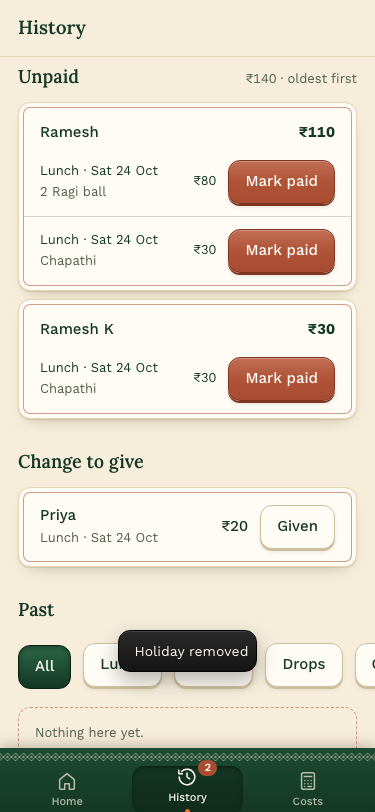
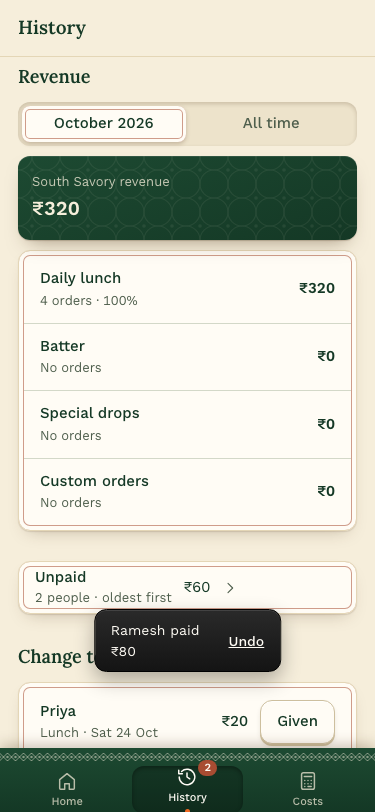
History: revenue by category, folded Unpaid, filters keep scroll
Shows South Savory revenue for this month or all time, with daily lunch,
batter, special drops and custom orders under it. Unpaid orders count.
The Unpaid list is folded for reference, and the Past filters no longer
jump back to the top.

diff --git a/site/public/index.html b/site/public/index.html
@@ -240,6 +240,10 @@ input:focus{outline:2px solid var(--hue);outline-offset:-1px;border-color:transp
 .toast button{color:var(--on-primary);font-weight:500;text-decoration:underline;padding:6px 8px}
 
 .ferr{color:var(--negative);font-size:14px;margin:8px 0 0}
+.acc>summary{list-style:none;cursor:pointer}
+.acc>summary::-webkit-details-marker{display:none}
+.acc>summary .chev{transition:transform .2s}
+.acc[open]>summary .chev{transform:rotate(90deg)}
 .notice{background:var(--pill-warning-bg);color:var(--pill-warning-ink);border-radius:var(--radius-card);padding:12px 14px;font-size:14px}
 .notice.neutral{background:var(--raised);color:var(--text)}
 .filters{display:flex;gap:6px;overflow-x:auto;padding-bottom:2px;margin:0 calc(-1 * var(--pad));padding:0 var(--pad)}
@@ -1811,8 +1815,27 @@ function viewMonth(q){
 }
 
 /* ======================= HISTORY ======================= */
+/* revenue by category for a month ("2026-10") or for everything ("all"); unpaid orders count, they get followed up */
+function revenueBy(per){
+  var r={total:0,paid:0,unpaid:0,n:0,cats:{lunch:{rev:0,n:0},batter:{rev:0,n:0},drop:{rev:0,n:0},custom:{rev:0,n:0}}};
+  events().forEach(function(ev){
+    if(per!=="all"&&(ev.date||"").slice(0,7)!==per) return;
+    var st=eventStats(ev), c=r.cats[ev.kind]; if(!c) return;
+    c.rev+=st.total; c.n+=st.n; r.total+=st.total; r.n+=st.n; r.paid+=st.paid; r.unpaid+=st.unpaid;
+  });
+  return r;
+}
+/* the History filters change the page in place, without jumping back to the top */
+function histSet(k,v){
+  var m=/[?&]f=([^&]*)/.exec(current), p=/[?&]p=([^&]*)/.exec(current);
+  var o={f:m?m[1]:"all",p:p?p[1]:"month"}; o[k]=v;
+  var h="#/history?f="+o.f+"&p="+o.p, y=window.scrollY;
+  current=h; try{ history.replaceState(null,"",h); }catch(e){}
+  render(); window.scrollTo(0,y);
+}
+var histOwedOpen=false;
 function viewHistory(q){
-  var f=q.f||"all";
+  var f=q.f||"all", per=q.p==="all"?"all":"month";
   var og=owedGroups(), ch=changeRows();
   var past=events().filter(isPast).filter(function(e){return f==="all"||e.kind===f;}).sort(function(a,b){return byDate(b,a);});
   var owedHtml=og.length?og.map(function(g){
@@ -1826,10 +1849,21 @@ function viewHistory(q){
     return '<div class="row"><span class="grow"><span class="t1" style="display:block">'+esc(r.o.name||"No name")+'</span><span class="t2" style="display:block">'+esc(evLabel(r.ev))+'</span></span><span class="val num" style="font-weight:500">'+rupee(r.o.changeDue)+'</span><button class="chip" onclick="giveChange(\''+r.ev.id+'\',\''+r.o.id+'\')">Given</button></div>';
   }).join("")+'</div>':'<p class="empty">No change owed to anyone.</p>';
   var fl=[["all","All"],["lunch","Lunch"],["batter","Batter"],["drop","Drops"],["custom","Custom"]];
+  var ym=todayKey().slice(0,7), rv=revenueBy(per==="all"?"all":ym);
+  var revRows=[["lunch","Daily lunch"],["batter","Batter"],["drop","Special drops"],["custom","Custom orders"]].map(function(k){
+    var c=rv.cats[k[0]];
+    return '<div class="row"><span class="grow"><span class="t1" style="display:block">'+k[1]+'</span><span class="t2 num" style="display:block">'+(c.n?plural(c.n,"order")+' · '+Math.round(c.rev*100/(rv.total||1))+'%':'No orders')+'</span></span><span class="amt num">'+rupee(c.rev)+'</span></div>';
+  }).join("");
+  var owedSum=og.reduce(function(a,g){return a+g.total;},0);
   $app.innerHTML='<header class="bar"><h1 style="padding-left:8px">History</h1></header><main class="page">'+
-    '<div class="section" style="margin-top:4px"><h2>Unpaid<span class="aside num">'+(og.length?rupee(og.reduce(function(a,g){return a+g.total;},0))+" · oldest first":"")+'</span></h2>'+owedHtml+'</div>'+
+    '<div class="section" style="margin-top:4px"><h2>Revenue</h2><div class="seg full" role="group" aria-label="Period">'+
+      [["month",monthName(ym)],["all","All time"]].map(function(x){return '<button aria-pressed="'+(per===x[0])+'" onclick="histSet(\'p\',\''+x[0]+'\')">'+x[1]+'</button>';}).join("")+'</div>'+
+      '<div class="card strip num" style="margin-top:10px;grid-template-columns:1fr"><div><div class="lab">South Savory revenue</div><div class="v money">'+rupee(rv.total)+'</div></div></div>'+
+      '<div class="list" style="margin-top:10px">'+revRows+'</div>'+
+      '</div>'+
+    '<div class="section"><details class="acc" id="owedAcc"'+(histOwedOpen?' open':'')+' ontoggle="histOwedOpen=this.open"><summary class="card owedrow" style="margin-top:0"><span class="grow"><span style="font-weight:500;display:block">Unpaid</span><span class="sub" style="display:block;margin:0">'+(og.length?plural(og.length,"person","people")+' · oldest first':'Nobody owes anything')+'</span></span><span class="amt num">'+(og.length?rupee(owedSum):'')+'</span>'+I.chev+'</summary>'+(og.length?owedHtml:'')+'</details></div>'+
     '<div class="section"><h2>Change to give</h2>'+chHtml+'</div>'+
-    '<div class="section"><h2>Past</h2><div class="filters" role="group" aria-label="Filter">'+fl.map(function(x){return '<button class="chip" aria-pressed="'+(f===x[0])+'" onclick="go(\'#/history?f='+x[0]+'\')">'+x[1]+'</button>';}).join("")+'</div>'+
+    '<div class="section"><h2>Past</h2><div class="filters" role="group" aria-label="Filter">'+fl.map(function(x){return '<button class="chip" aria-pressed="'+(f===x[0])+'" onclick="histSet(\'f\',\''+x[0]+'\')">'+x[1]+'</button>';}).join("")+'</div>'+
       (past.length?'<div class="list" style="margin-top:10px">'+past.map(function(ev){ var st=eventStats(ev);
         return '<a class="row" href="'+evRoute(ev)+'"><span class="grow"><span class="t1" style="display:block">'+esc(evLabel(ev))+'</span><span class="t2" style="display:block">'+st.n+' '+(st.n===1?"order":"orders")+(st.unpaid?' · '+rupee(st.unpaid)+' unpaid':'')+(ev.imported?' · old app':'')+'</span></span><span class="amt num">'+rupee(st.total)+'</span>'+I.chev+'</a>'; }).join("")+'</div>':'<p class="empty" style="margin-top:10px">Nothing here yet.</p>')+'</div>'+
     '<div class="section"><h2>Data</h2><div class="card pad"><p class="small" id="syncState">'+(SYNC.on?esc(syncText()):"Everything is saved on this phone. Export a backup now and then.")+'</p>'+
